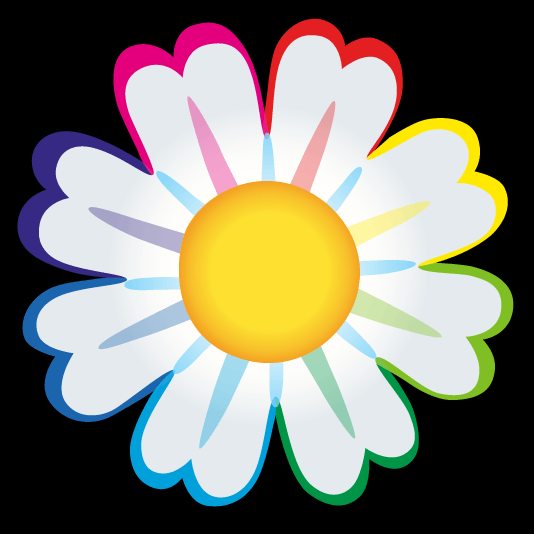
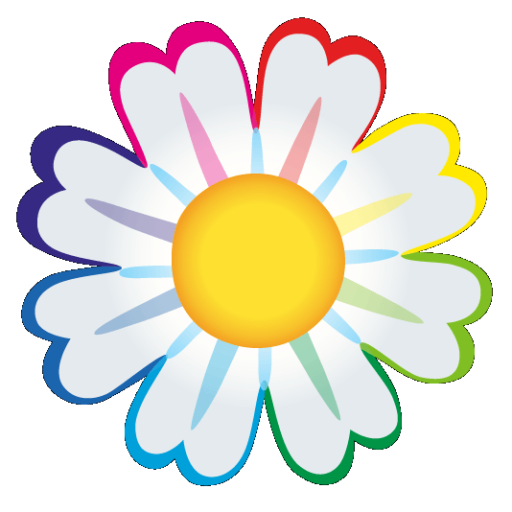
Site updated: 2024-03-04 18:04:38

diff --git a/categories/index.html b/categories/index.html
@@ -7,8 +7,8 @@
 
 <head>
   <meta charset="UTF-8">
-  <link rel="apple-touch-icon" sizes="76x76" href="/img/flower2.png">
-  <link rel="icon" type="image/png" href="/img/flower2.png">
+  <link rel="apple-touch-icon" sizes="76x76" href="/img/flower.png">
+  <link rel="icon" type="image/png" href="/img/flower.png">
   <meta name="viewport"
         content="width=device-width, initial-scale=1.0, maximum-scale=1.0, user-scalable=no, shrink-to-fit=no">
   <meta http-equiv="x-ua-compatible" content="ie=edge">
@@ -188,7 +188,7 @@
     <div class="category row">
       <a
         class="category-item collapsed list-group-item category-item-action col-10 col-md-11"
-        id="heading-cltcrsihp0004lxz5hcqaf7j6" role="tab" data-toggle="collapse" href="#collapse-cltcrsihp0004lxz5hcqaf7j6"
+        id="heading-cltcry49h0004tmz58j5j7c2m" role="tab" data-toggle="collapse" href="#collapse-cltcry49h0004tmz58j5j7c2m"
         aria-expanded="false"
       >
         CTF
@@ -201,8 +201,8 @@
       <div class="category-collapse">
         
           
-  <div id="collapse-cltcrsihp0004lxz5hcqaf7j6" class="collapse in" role="tabpanel"
-       aria-labelledby="heading-cltcrsihp0004lxz5hcqaf7j6">
+  <div id="collapse-cltcry49h0004tmz58j5j7c2m" class="collapse in" role="tabpanel"
+       aria-labelledby="heading-cltcry49h0004tmz58j5j7c2m">
     
     
     
@@ -280,7 +280,7 @@
     <div class="category row">
       <a
         class="category-item collapsed list-group-item category-item-action col-10 col-md-11"
-        id="heading-cltcrsii0001ilxz547oddg8l" role="tab" data-toggle="collapse" href="#collapse-cltcrsii0001ilxz547oddg8l"
+        id="heading-cltcry49p001atmz50vvvejxw" role="tab" data-toggle="collapse" href="#collapse-cltcry49p001atmz50vvvejxw"
         aria-expanded="false"
       >
         渗透测试
@@ -293,8 +293,8 @@
       <div class="category-collapse">
         
           
-  <div id="collapse-cltcrsii0001ilxz547oddg8l" class="collapse in" role="tabpanel"
-       aria-labelledby="heading-cltcrsii0001ilxz547oddg8l">
+  <div id="collapse-cltcry49p001atmz50vvvejxw" class="collapse in" role="tabpanel"
+       aria-labelledby="heading-cltcry49p001atmz50vvvejxw">
     
     
     
@@ -330,7 +330,7 @@
     <div class="category row">
       <a
         class="category-item collapsed list-group-item category-item-action col-10 col-md-11"
-        id="heading-cltcrsihv000llxz5136scmoq" role="tab" data-toggle="collapse" href="#collapse-cltcrsihv000llxz5136scmoq"
+        id="heading-cltcry49n000utmz55t055wrh" role="tab" data-toggle="collapse" href="#collapse-cltcry49n000utmz55t055wrh"
         aria-expanded="false"
       >
         电脑
@@ -343,8 +343,8 @@
       <div class="category-collapse">
         
           
-  <div id="collapse-cltcrsihv000llxz5136scmoq" class="collapse in" role="tabpanel"
-       aria-labelledby="heading-cltcrsihv000llxz5136scmoq">
+  <div id="collapse-cltcry49n000utmz55t055wrh" class="collapse in" role="tabpanel"
+       aria-labelledby="heading-cltcry49n000utmz55t055wrh">
     
     
     
@@ -373,7 +373,7 @@
     <div class="category row">
       <a
         class="category-item collapsed list-group-item category-item-action col-10 col-md-11"
-        id="heading-cltcrsihw000tlxz58zb3bpws" role="tab" data-toggle="collapse" href="#collapse-cltcrsihw000tlxz58zb3bpws"
+        id="heading-cltcry49m000ltmz5e9k1bbwx" role="tab" data-toggle="collapse" href="#collapse-cltcry49m000ltmz5e9k1bbwx"
         aria-expanded="false"
       >
         博客
@@ -386,8 +386,8 @@
       <div class="category-collapse">
         
           
-  <div id="collapse-cltcrsihw000tlxz58zb3bpws" class="collapse in" role="tabpanel"
-       aria-labelledby="heading-cltcrsihw000tlxz58zb3bpws">
+  <div id="collapse-cltcry49m000ltmz5e9k1bbwx" class="collapse in" role="tabpanel"
+       aria-labelledby="heading-cltcry49m000ltmz5e9k1bbwx">
     
     
     

diff --git a/2020/11/07/如何搭建个人博客/index.html b/2020/11/07/如何搭建个人博客/index.html
@@ -7,8 +7,8 @@
 
 <head>
   <meta charset="UTF-8">
-  <link rel="apple-touch-icon" sizes="76x76" href="/img/flower2.png">
-  <link rel="icon" type="image/png" href="/img/flower2.png">
+  <link rel="apple-touch-icon" sizes="76x76" href="/img/flower.png">
+  <link rel="icon" type="image/png" href="/img/flower.png">
   <meta name="viewport"
         content="width=device-width, initial-scale=1.0, maximum-scale=1.0, user-scalable=no, shrink-to-fit=no">
   <meta http-equiv="x-ua-compatible" content="ie=edge">

diff --git a/2020/11/22/win10软件设置开机启动/index.html b/2020/11/22/win10软件设置开机启动/index.html
@@ -7,8 +7,8 @@
 
 <head>
   <meta charset="UTF-8">
-  <link rel="apple-touch-icon" sizes="76x76" href="/img/flower2.png">
-  <link rel="icon" type="image/png" href="/img/flower2.png">
+  <link rel="apple-touch-icon" sizes="76x76" href="/img/flower.png">
+  <link rel="icon" type="image/png" href="/img/flower.png">
   <meta name="viewport"
         content="width=device-width, initial-scale=1.0, maximum-scale=1.0, user-scalable=no, shrink-to-fit=no">
   <meta http-equiv="x-ua-compatible" content="ie=edge">

diff --git a/2020/12/03/CTF小记/index.html b/2020/12/03/CTF小记/index.html
@@ -7,8 +7,8 @@
 
 <head>
   <meta charset="UTF-8">
-  <link rel="apple-touch-icon" sizes="76x76" href="/img/flower2.png">
-  <link rel="icon" type="image/png" href="/img/flower2.png">
+  <link rel="apple-touch-icon" sizes="76x76" href="/img/flower.png">
+  <link rel="icon" type="image/png" href="/img/flower.png">
   <meta name="viewport"
         content="width=device-width, initial-scale=1.0, maximum-scale=1.0, user-scalable=no, shrink-to-fit=no">
   <meta http-equiv="x-ua-compatible" content="ie=edge">

diff --git a/2021/05/10/正则表达式/index.html b/2021/05/10/正则表达式/index.html
@@ -7,8 +7,8 @@
 
 <head>
   <meta charset="UTF-8">
-  <link rel="apple-touch-icon" sizes="76x76" href="/img/flower2.png">
-  <link rel="icon" type="image/png" href="/img/flower2.png">
+  <link rel="apple-touch-icon" sizes="76x76" href="/img/flower.png">
+  <link rel="icon" type="image/png" href="/img/flower.png">
   <meta name="viewport"
         content="width=device-width, initial-scale=1.0, maximum-scale=1.0, user-scalable=no, shrink-to-fit=no">
   <meta http-equiv="x-ua-compatible" content="ie=edge">

diff --git a/2021/05/31/ciscn 2021 web wp/index.html b/2021/05/31/ciscn 2021 web wp/index.html
@@ -7,8 +7,8 @@
 
 <head>
   <meta charset="UTF-8">
-  <link rel="apple-touch-icon" sizes="76x76" href="/img/flower2.png">
-  <link rel="icon" type="image/png" href="/img/flower2.png">
+  <link rel="apple-touch-icon" sizes="76x76" href="/img/flower.png">
+  <link rel="icon" type="image/png" href="/img/flower.png">
   <meta name="viewport"
         content="width=device-width, initial-scale=1.0, maximum-scale=1.0, user-scalable=no, shrink-to-fit=no">
   <meta http-equiv="x-ua-compatible" content="ie=edge">

diff --git a/2021/06/20/网络连接/index.html b/2021/06/20/网络连接/index.html
@@ -7,8 +7,8 @@
 
 <head>
   <meta charset="UTF-8">
-  <link rel="apple-touch-icon" sizes="76x76" href="/img/flower2.png">
-  <link rel="icon" type="image/png" href="/img/flower2.png">
+  <link rel="apple-touch-icon" sizes="76x76" href="/img/flower.png">
+  <link rel="icon" type="image/png" href="/img/flower.png">
   <meta name="viewport"
         content="width=device-width, initial-scale=1.0, maximum-scale=1.0, user-scalable=no, shrink-to-fit=no">
   <meta http-equiv="x-ua-compatible" content="ie=edge">

diff --git a/2021/09/06/SQL注入/index.html b/2021/09/06/SQL注入/index.html
@@ -7,8 +7,8 @@
 
 <head>
   <meta charset="UTF-8">
-  <link rel="apple-touch-icon" sizes="76x76" href="/img/flower2.png">
-  <link rel="icon" type="image/png" href="/img/flower2.png">
+  <link rel="apple-touch-icon" sizes="76x76" href="/img/flower.png">
+  <link rel="icon" type="image/png" href="/img/flower.png">
   <meta name="viewport"
         content="width=device-width, initial-scale=1.0, maximum-scale=1.0, user-scalable=no, shrink-to-fit=no">
   <meta http-equiv="x-ua-compatible" content="ie=edge">

diff --git a/2021/09/16/陇剑杯部分WP/index.html b/2021/09/16/陇剑杯部分WP/index.html
@@ -7,8 +7,8 @@
 
 <head>
   <meta charset="UTF-8">
-  <link rel="apple-touch-icon" sizes="76x76" href="/img/flower2.png">
-  <link rel="icon" type="image/png" href="/img/flower2.png">
+  <link rel="apple-touch-icon" sizes="76x76" href="/img/flower.png">
+  <link rel="icon" type="image/png" href="/img/flower.png">
   <meta name="viewport"
         content="width=device-width, initial-scale=1.0, maximum-scale=1.0, user-scalable=no, shrink-to-fit=no">
   <meta http-equiv="x-ua-compatible" content="ie=edge">

diff --git a/2021/09/29/绿城杯WP/index.html b/2021/09/29/绿城杯WP/index.html
@@ -7,8 +7,8 @@
 
 <head>
   <meta charset="UTF-8">
-  <link rel="apple-touch-icon" sizes="76x76" href="/img/flower2.png">
-  <link rel="icon" type="image/png" href="/img/flower2.png">
+  <link rel="apple-touch-icon" sizes="76x76" href="/img/flower.png">
+  <link rel="icon" type="image/png" href="/img/flower.png">
   <meta name="viewport"
         content="width=device-width, initial-scale=1.0, maximum-scale=1.0, user-scalable=no, shrink-to-fit=no">
   <meta http-equiv="x-ua-compatible" content="ie=edge">

diff --git a/2021/10/09/python发送request包/index.html b/2021/10/09/python发送request包/index.html
@@ -7,8 +7,8 @@
 
 <head>
   <meta charset="UTF-8">
-  <link rel="apple-touch-icon" sizes="76x76" href="/img/flower2.png">
-  <link rel="icon" type="image/png" href="/img/flower2.png">
+  <link rel="apple-touch-icon" sizes="76x76" href="/img/flower.png">
+  <link rel="icon" type="image/png" href="/img/flower.png">
   <meta name="viewport"
         content="width=device-width, initial-scale=1.0, maximum-scale=1.0, user-scalable=no, shrink-to-fit=no">
   <meta http-equiv="x-ua-compatible" content="ie=edge">

diff --git a/2021/11/25/网站代码审计/index.html b/2021/11/25/网站代码审计/index.html
@@ -7,8 +7,8 @@
 
 <head>
   <meta charset="UTF-8">
-  <link rel="apple-touch-icon" sizes="76x76" href="/img/flower2.png">
-  <link rel="icon" type="image/png" href="/img/flower2.png">
+  <link rel="apple-touch-icon" sizes="76x76" href="/img/flower.png">
+  <link rel="icon" type="image/png" href="/img/flower.png">
   <meta name="viewport"
         content="width=device-width, initial-scale=1.0, maximum-scale=1.0, user-scalable=no, shrink-to-fit=no">
   <meta http-equiv="x-ua-compatible" content="ie=edge">
